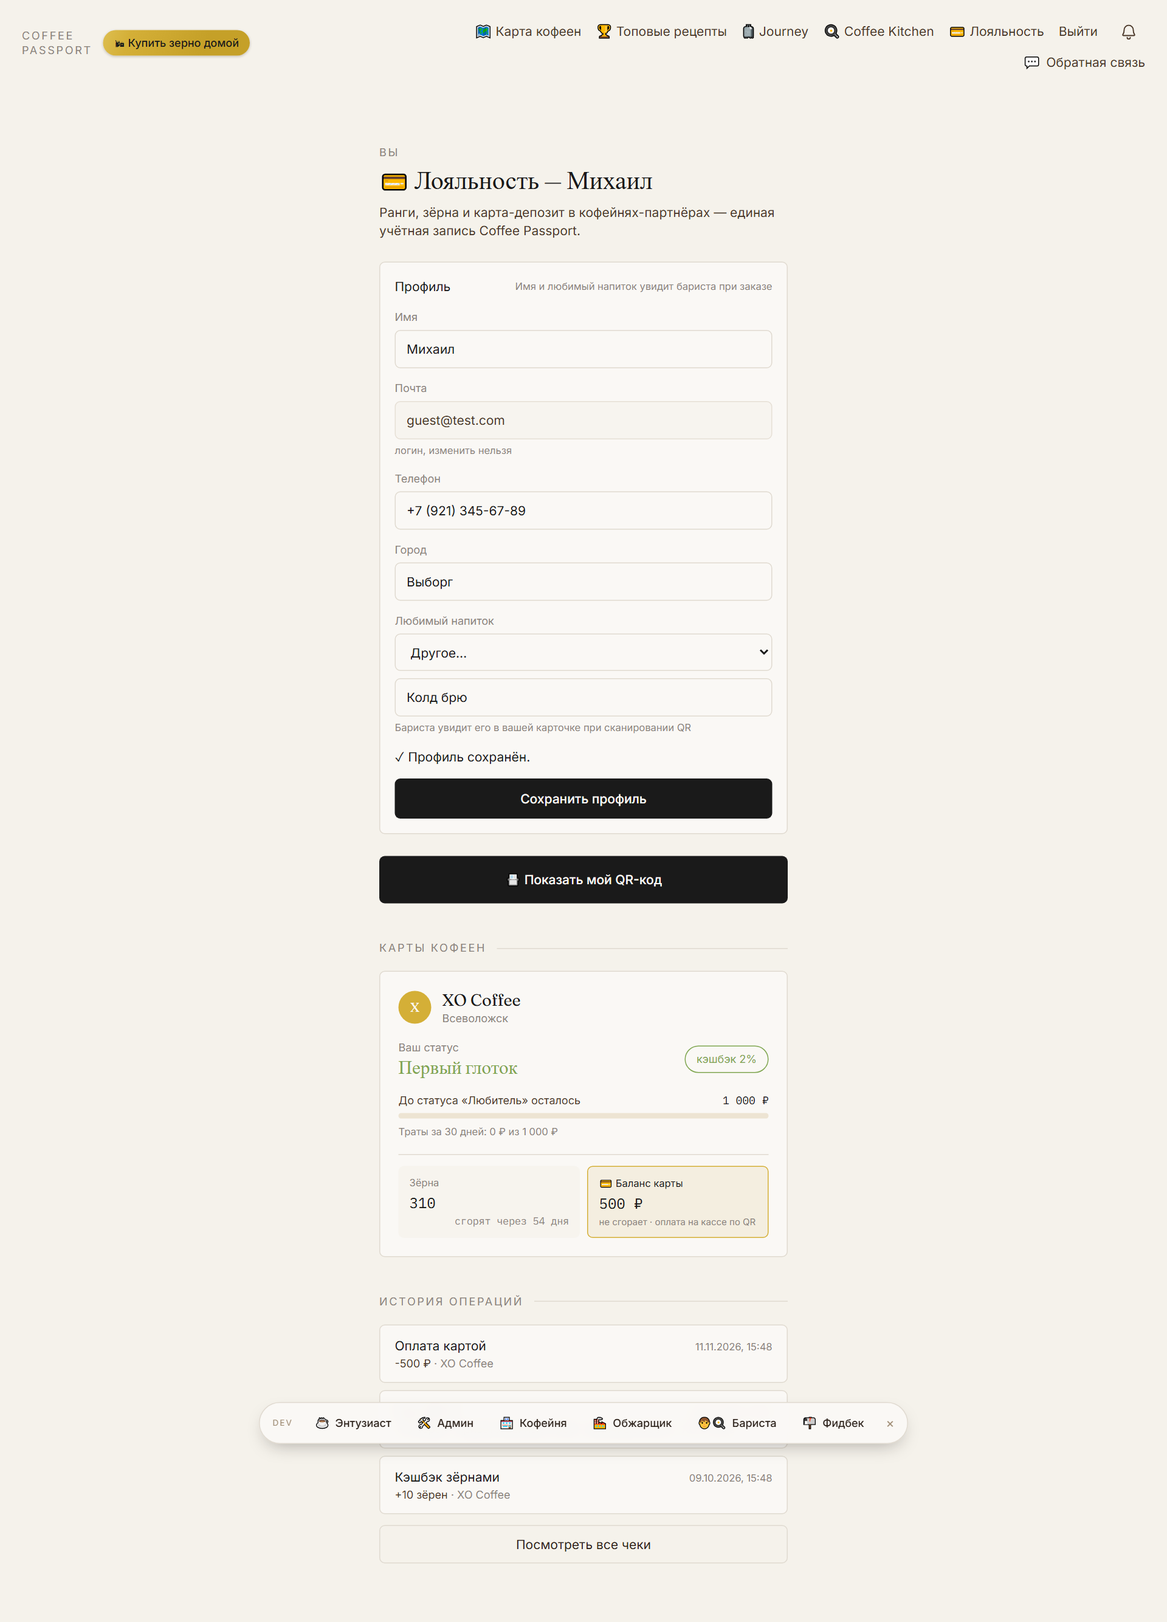
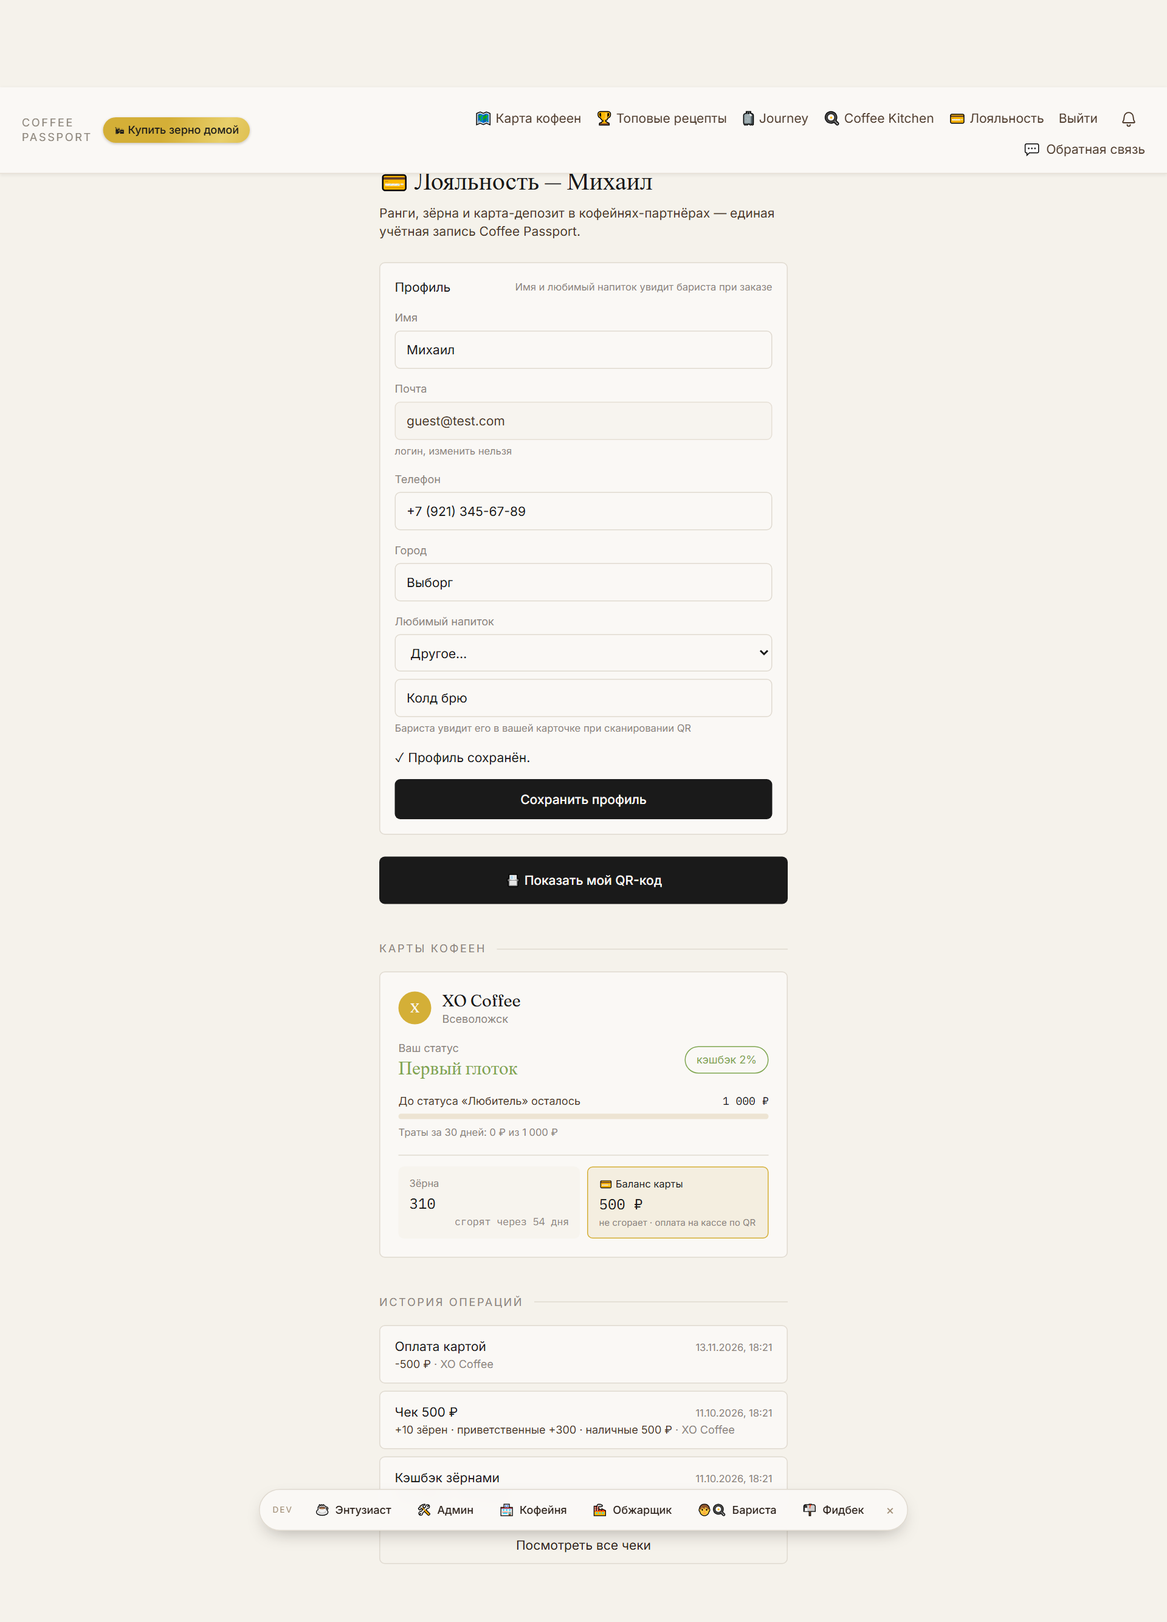
пакет №3, задача 1: блок профиля в ЛК рендерится ВСЕГДА — fetchOwnProfile различает «строки нет» и сбой (union + console.error), пустой/недоступный профиль = пустая форма с предупреждением, а не исчезнувший блок; ensure-миграция 0047 (user reads own profile); регрессионные тесты null/error/SSR

diff --git a/components/loyalty/GuestProfileEditor.tsx b/components/loyalty/GuestProfileEditor.tsx
@@ -1,7 +1,7 @@
 'use client';
 
 import { useEffect, useState } from 'react';
-import { updateOwnProfile, type OwnProfile } from '@/lib/data/loyalty';
+import { updateOwnProfile, type OwnProfile, type OwnProfilePatch } from '@/lib/data/loyalty';
 import { formatPhoneMask } from '@/lib/utils/phone';
 
 // Типовые напитки выпадающего списка + «другое» со свободным текстом
@@ -40,27 +40,32 @@ const inputClasses =
 // Имя — то же display_name, что видит бариста при сканировании QR; почта —
 // read-only логин. Сохранение идёт в БД (updateOwnProfile), после чего ЛК
 // перечитывает профиль — введённое переживает перезаход и смену устройства.
+// Блок рендерится ВСЕГДА для вошедшего гостя: profile=null — пустая форма
+// (строки в БД ещё нет или чтение не удалось), loadError — понятное
+// сообщение в блоке вместо молча исчезнувшей секции (баг пакета №3).
 export function GuestProfileEditor({
   profile,
+  loadError = null,
   onSaved,
 }: {
-  profile: OwnProfile;
-  onSaved: (profile: OwnProfile) => void;
+  profile: OwnProfile | null;
+  loadError?: string | null;
+  onSaved: (patch: OwnProfilePatch) => void;
 }) {
-  const initialDrink = drinkToForm(profile.favoriteDrink);
-  const [displayName, setDisplayName] = useState(profile.displayName ?? '');
-  const [phone, setPhone] = useState(profile.phone ?? '');
-  const [city, setCity] = useState(profile.city ?? '');
+  const initialDrink = drinkToForm(profile?.favoriteDrink ?? null);
+  const [displayName, setDisplayName] = useState(profile?.displayName ?? '');
+  const [phone, setPhone] = useState(profile?.phone ?? '');
+  const [city, setCity] = useState(profile?.city ?? '');
   const [drinkSelect, setDrinkSelect] = useState(initialDrink.select);
   const [drinkOther, setDrinkOther] = useState(initialDrink.other);
   const [saving, setSaving] = useState(false);
   const [notice, setNotice] = useState<{ kind: 'ok' | 'error'; text: string } | null>(null);
 
   useEffect(() => {
-    setDisplayName(profile.displayName ?? '');
-    setPhone(profile.phone ?? '');
-    setCity(profile.city ?? '');
-    const drink = drinkToForm(profile.favoriteDrink);
+    setDisplayName(profile?.displayName ?? '');
+    setPhone(profile?.phone ?? '');
+    setCity(profile?.city ?? '');
+    const drink = drinkToForm(profile?.favoriteDrink ?? null);
     setDrinkSelect(drink.select);
     setDrinkOther(drink.other);
   }, [profile]);
@@ -82,11 +87,10 @@ export function GuestProfileEditor({
     }
     setNotice({ kind: 'ok', text: 'Профиль сохранён.' });
     onSaved({
-      ...profile,
-      displayName: displayName.trim() || null,
-      phone: formatPhoneMask(phone) || null,
-      city: city.trim() || null,
-      favoriteDrink: formToDrink(drinkSelect, drinkOther) || null,
+      displayName: displayName.trim(),
+      phone: formatPhoneMask(phone),
+      city: city.trim(),
+      favoriteDrink: formToDrink(drinkSelect, drinkOther),
     });
   }
 
@@ -96,6 +100,12 @@ export function GuestProfileEditor({
         <p className="text-sm text-ink-900">Профиль</p>
         <p className="text-[11px] text-ink-400">Имя и любимый напиток увидит бариста при заказе</p>
       </div>
+
+      {loadError && (
+        <p role="alert" className="mb-4 text-sm text-rating">
+          ⚠ Профиль не загрузился: {loadError}. Заполните поля и сохраните — данные запишутся в ваш аккаунт.
+        </p>
+      )}
 
       <div className="flex flex-col gap-3.5">
         <label className="block">
@@ -111,7 +121,7 @@ export function GuestProfileEditor({
         <div>
           <span className="block text-xs text-ink-400 mb-1.5">Почта</span>
           <p className="rounded-md border border-ink-100 bg-parchment-200/60 px-3 py-2.5 text-sm text-ink-500 select-all">
-            {profile.email ?? '—'}
+            {profile?.email ?? '—'}
           </p>
           <p className="text-[11px] text-ink-400 mt-1">логин, изменить нельзя</p>
         </div>

diff --git a/lib/data/loyalty.test.ts b/lib/data/loyalty.test.ts
@@ -16,6 +16,7 @@ const recorded: RecordedQuery[] = [];
 
 let authUser: { id: string } | null = { id: 'user-1' };
 let profileRow: Record<string, unknown> | null = null;
+let readError: { message: string } | null = null;
 let writeError: { message: string } | null = null;
 
 function makeQuery(rec: RecordedQuery): unknown {
@@ -32,7 +33,9 @@ function makeQuery(rec: RecordedQuery): unknown {
       return chain;
     },
     maybeSingle() {
-      return Promise.resolve({ data: profileRow, error: profileRow ? null : { message: 'row not found' } });
+      // data=null + error=null — настоящий «строки нет» (maybeSingle);
+      // readError — сбой чтения (RLS/сеть).
+      return Promise.resolve({ data: profileRow, error: readError });
     },
     then(onFulfilled: (value: unknown) => unknown, onRejected: (reason: unknown) => unknown) {
       // .update(...).eq(...) await'ится как промис — разрешаем результатом записи.
@@ -73,6 +76,7 @@ describe('loyalty data layer — own profile vs staff guest lookup', () => {
     recorded.length = 0;
     authUser = { id: 'user-1' };
     profileRow = null;
+    readError = null;
     writeError = null;
   });
 
@@ -86,10 +90,13 @@ describe('loyalty data layer — own profile vs staff guest lookup', () => {
       favorite_drink: 'Флэт уайт',
     };
     const loyalty = await import('./loyalty');
-    const profile = await loyalty.fetchOwnProfile();
+    const result = await loyalty.fetchOwnProfile();
 
-    expect(profile?.displayName).toBe('Михаил');
-    expect(profile?.favoriteDrink).toBe('Флэт уайт');
+    expect(result.ok).toBe(true);
+    if (result.ok) {
+      expect(result.profile?.displayName).toBe('Михаил');
+      expect(result.profile?.favoriteDrink).toBe('Флэт уайт');
+    }
     const rec = recorded.find((r) => r.table === 'profiles');
     expect(rec).toBeDefined();
     expect(rec!.eqs).toContainEqual(['id', 'user-1']);
@@ -97,6 +104,36 @@ describe('loyalty data layer — own profile vs staff guest lookup', () => {
     // у которой eq(role, 'enthusiast') молча давал null для staff-аккаунта.
     expect(rec!.eqs.some(([column]) => column === 'role')).toBe(false);
     expect(rec!.select).toContain('favorite_drink');
+  });
+
+  it('fetchOwnProfile: строки нет — ok с пустым профилем (форма рендерится пустой)', async () => {
+    const loyalty = await import('./loyalty');
+    const result = await loyalty.fetchOwnProfile();
+
+    expect(result).toEqual({ ok: true, profile: null });
+  });
+
+  it('fetchOwnProfile: сбой чтения — ok:false с текстом ошибки и console.error (баг пакета №3)', async () => {
+    readError = { message: 'RLS: политика не пускает' };
+    const spy = vi.spyOn(console, 'error').mockImplementation(() => {});
+    const loyalty = await import('./loyalty');
+    const result = await loyalty.fetchOwnProfile();
+
+    expect(result).toEqual({ ok: false, error: 'RLS: политика не пускает' });
+    expect(spy).toHaveBeenCalledWith('[loyalty] fetchOwnProfile:', 'RLS: политика не пускает');
+    spy.mockRestore();
+  });
+
+  it('fetchOwnProfile: сессия не определилась — окно ошибки, а не молчаливый null', async () => {
+    authUser = null;
+    const spy = vi.spyOn(console, 'error').mockImplementation(() => {});
+    const loyalty = await import('./loyalty');
+    const result = await loyalty.fetchOwnProfile();
+
+    expect(result.ok).toBe(false);
+    expect(result.error).toContain('Сессия');
+    expect(recorded.find((r) => r.table === 'profiles')).toBeUndefined();
+    spy.mockRestore();
   });
 
   it('fetchGuestProfile сохраняет фильтр role=enthusiast (staff читает карту гостя)', async () => {

diff --git a/lib/data/loyalty.ts b/lib/data/loyalty.ts
@@ -137,6 +137,10 @@ export async function fetchGuestProfile(
 // любая роль читает свой display_name/phone/city/favorite_drink обратно.
 // Это и есть фикс бага «имя слетает после перезахода»: fetchGuestProfile с
 // её role='enthusiast' для staff-аккаунта молча возвращала null.
+// Контракт результата — дискриминированный union: ЛК обязан рендерить блок
+// профиля ВСЕГДА, поэтому «не получилось» и «строки нет» — разные ветки,
+// ошибка не глотается (console.error + понятный текст на экране), иначе
+// пустой профиль неотличим от сбоя и блок целиком исчезает (баг пакета №3).
 export interface OwnProfile {
   id: string;
   displayName: string | null;
@@ -146,29 +150,47 @@ export interface OwnProfile {
   favoriteDrink: string | null;
 }
 
-export async function fetchOwnProfile(): Promise<OwnProfile | null> {
+export type OwnProfileResult =
+  | { ok: true; profile: OwnProfile | null }
+  | { ok: false; error: string };
+
+export async function fetchOwnProfile(): Promise<OwnProfileResult> {
   try {
     const supabase = getBrowserSupabaseClient();
     const {
       data: { user },
+      error: userError,
     } = await supabase.auth.getUser();
-    if (!user) return null;
+    if (userError || !user) {
+      console.error('[loyalty] fetchOwnProfile: сессия не определилась', userError?.message ?? '');
+      return { ok: false, error: 'Сессия не определилась — войдите ещё раз.' };
+    }
     const { data, error } = await supabase
       .from('profiles')
       .select('id, display_name, email, phone, city, favorite_drink')
       .eq('id', user.id)
       .maybeSingle();
-    if (error || !data) return null;
+    if (error) {
+      console.error('[loyalty] fetchOwnProfile:', error.message);
+      return { ok: false, error: error.message };
+    }
+    // Строки нет (аккаунт без profiles — форма покажется пустой): не ошибка.
+    if (!data) return { ok: true, profile: null };
     return {
-      id: data.id,
-      displayName: data.display_name,
-      email: data.email,
-      phone: data.phone,
-      city: data.city,
-      favoriteDrink: data.favorite_drink,
+      ok: true,
+      profile: {
+        id: data.id,
+        displayName: data.display_name,
+        email: data.email,
+        phone: data.phone,
+        city: data.city,
+        favoriteDrink: data.favorite_drink,
+      },
     };
-  } catch {
-    return null;
+  } catch (error) {
+    const message = error instanceof Error ? error.message : 'Неизвестная ошибка';
+    console.error('[loyalty] fetchOwnProfile:', message);
+    return { ok: false, error: message };
   }
 }
 

diff --git a/components/loyalty/GuestProfileEditor.test.ts b/components/loyalty/GuestProfileEditor.test.ts
@@ -1,0 +1,54 @@
+import { describe, expect, it } from 'vitest';
+import { createElement } from 'react';
+import { renderToStaticMarkup } from 'react-dom/server';
+import { GuestProfileEditor } from './GuestProfileEditor';
+
+// Регрессия бага пакета №3: в ЛК гостя блок «Профиль» исчезал целиком, когда
+// fetchOwnProfile возвращал null (пустой/недоступный профиль) — условие
+// {profile && …} на странице. Контракт теперь: блок рендерится ВСЕГДА,
+// ошибка чтения — видимое предупреждение в блоке. Тестируем SSR-разметку
+// (react-dom/server — без jsdom, который в проект намеренно не ставится).
+
+describe('GuestProfileEditor — блок профиля рендерится всегда (баг пакета №3)', () => {
+  it('при null-профиле: форма с пустыми полями и заглушкой почты, без undefined', () => {
+    const html = renderToStaticMarkup(
+      createElement(GuestProfileEditor, { profile: null, onSaved: () => {} })
+    );
+
+    expect(html).toContain('Профиль');
+    expect(html).toContain('Как к вам обращаться?');
+    expect(html).toContain('Сохранить профиль');
+    expect(html).toContain('Любимый напиток');
+    expect(html).not.toContain('undefined');
+  });
+
+  it('при ошибке загрузки: понятное предупреждение прямо в блоке', () => {
+    const html = renderToStaticMarkup(
+      createElement(GuestProfileEditor, { profile: null, loadError: 'RLS denied', onSaved: () => {} })
+    );
+
+    expect(html).toContain('Профиль не загрузился');
+    expect(html).toContain('RLS denied');
+    // Форма при этом остаётся доступна для заполнения.
+    expect(html).toContain('Сохранить профиль');
+  });
+
+  it('при загруженном профиле: имя и почта подставлены в форму', () => {
+    const html = renderToStaticMarkup(
+      createElement(GuestProfileEditor, {
+        profile: {
+          id: 'user-1',
+          displayName: 'Михаил',
+          email: 'mihail@test.com',
+          phone: null,
+          city: 'Санкт-Петербург',
+          favoriteDrink: 'Флэт уайт',
+        },
+        onSaved: () => {},
+      })
+    );
+
+    expect(html).toContain('mihail@test.com');
+    expect(html).toContain('value="Михаил"');
+  });
+});

diff --git a/app/(site)/loyalty/page.tsx b/app/(site)/loyalty/page.tsx
@@ -26,6 +26,7 @@ export default function LoyaltyPage() {
   const [cards, setCards] = useState<GuestHallCard[] | null>(null);
   const [history, setHistory] = useState<LoyaltyHistoryItem[]>([]);
   const [profile, setProfile] = useState<OwnProfile | null>(null);
+  const [profileError, setProfileError] = useState<string | null>(null);
   const [qrOpen, setQrOpen] = useState(false);
   const [showAllHistory, setShowAllHistory] = useState(false);
 
@@ -39,9 +40,13 @@ export default function LoyaltyPage() {
       if (!cancelled) setHistory(items);
     });
     // Свой профиль — через fetchOwnProfile (без ролевого фильтра): источник
-    // истины БД, имя переживает перезаход/перелогин/смену устройства.
+    // истины БД, имя переживает перезаход/перелогин/смену устройства. Ошибка
+    // чтения не глотается: уходит в блок профиля как текст + console.error
+    // (баг пакета №3: молчаливая null-ветка прятала блок целиком).
     fetchOwnProfile().then((result) => {
-      if (!cancelled) setProfile(result);
+      if (cancelled) return;
+      if (result.ok) setProfile(result.profile);
+      else setProfileError(result.error);
     });
     return () => {
       cancelled = true;
@@ -80,7 +85,15 @@ export default function LoyaltyPage() {
           Ранги, зёрна и карта-депозит в кофейнях-партнёрах — единая учётная запись Coffee Passport.
         </p>
 
-        {profile && <GuestProfileEditor profile={profile} onSaved={setProfile} />}
+        {/* Блок профиля — всегда: профиль не загрузился/пустой → форма с
+            пустыми полями и предупреждением, а не исчезнувшая секция. */}
+        <GuestProfileEditor
+          profile={profile}
+          loadError={profileError}
+          onSaved={(patch) =>
+            setProfile((prev) => ({ id: prev?.id ?? userId, email: prev?.email ?? null, ...patch }))
+          }
+        />
 
         <button
           type="button"

diff --git a/supabase/grindConfirmations.test.ts b/supabase/grindConfirmations.test.ts
@@ -25,10 +25,11 @@ describe('grind confirmations migration (0038)', () => {
     // сид учётки владельца и его откат; 0043 — орден только на топ-ранге;
     // 0044 — ренейм ранга 6; 0045 — переезд ордена сида владельца на
     // «Хранитель вкуса»; 0046 — мини-профиль гостя + кэшбэк на денежную
-    // часть чека. Страж следит за последовательностью без разрывов
-    // и коллизий.
+    // часть чека; 0047 — ensure-политика «user reads own profile» (блок
+    // профиля в ЛК не должен зависеть от ручных правок базы). Страж следит
+    // за последовательностью без разрывов и коллизий.
     expect(numbers).toContain(39);
-    expect(numbers[numbers.length - 1]).toBe(46);
+    expect(numbers[numbers.length - 1]).toBe(47);
     expect(new Set(numbers).size).toBe(numbers.length);
   });
 

diff --git a/vitest.config.ts b/vitest.config.ts
@@ -12,6 +12,12 @@ export default defineConfig({
       '@': path.resolve(__dirname, '.'),
     },
   },
+  // JSX у компонентов — automatic runtime (как у SWC в Next-сборке): иначе
+  // esbuild превращает JSX в React.createElement и падает с «React is not
+  // defined» — импорт React в каждый компонент ради тестов не заводим.
+  esbuild: {
+    jsx: 'automatic',
+  },
   test: {
     // Playwright-спеки в e2e/ не belong vitest'у — они гоняются через
     // `npm run test:e2e` (Chromium, webServer из playwright.config.ts).
